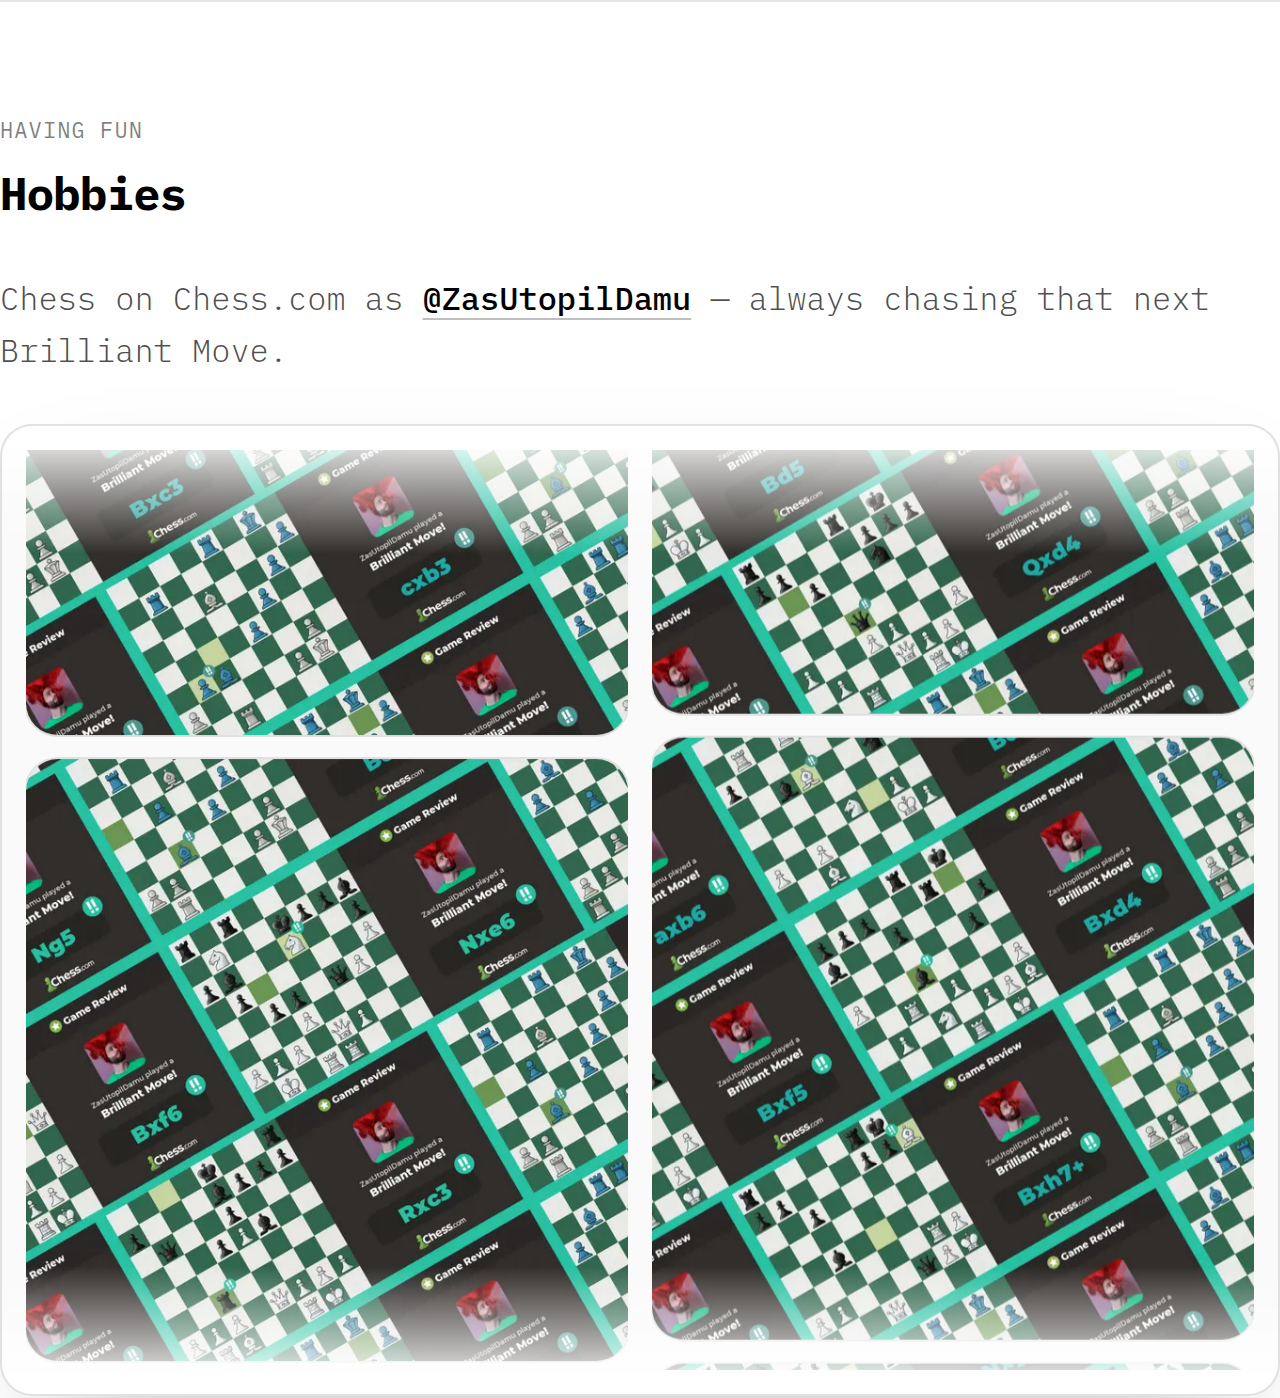
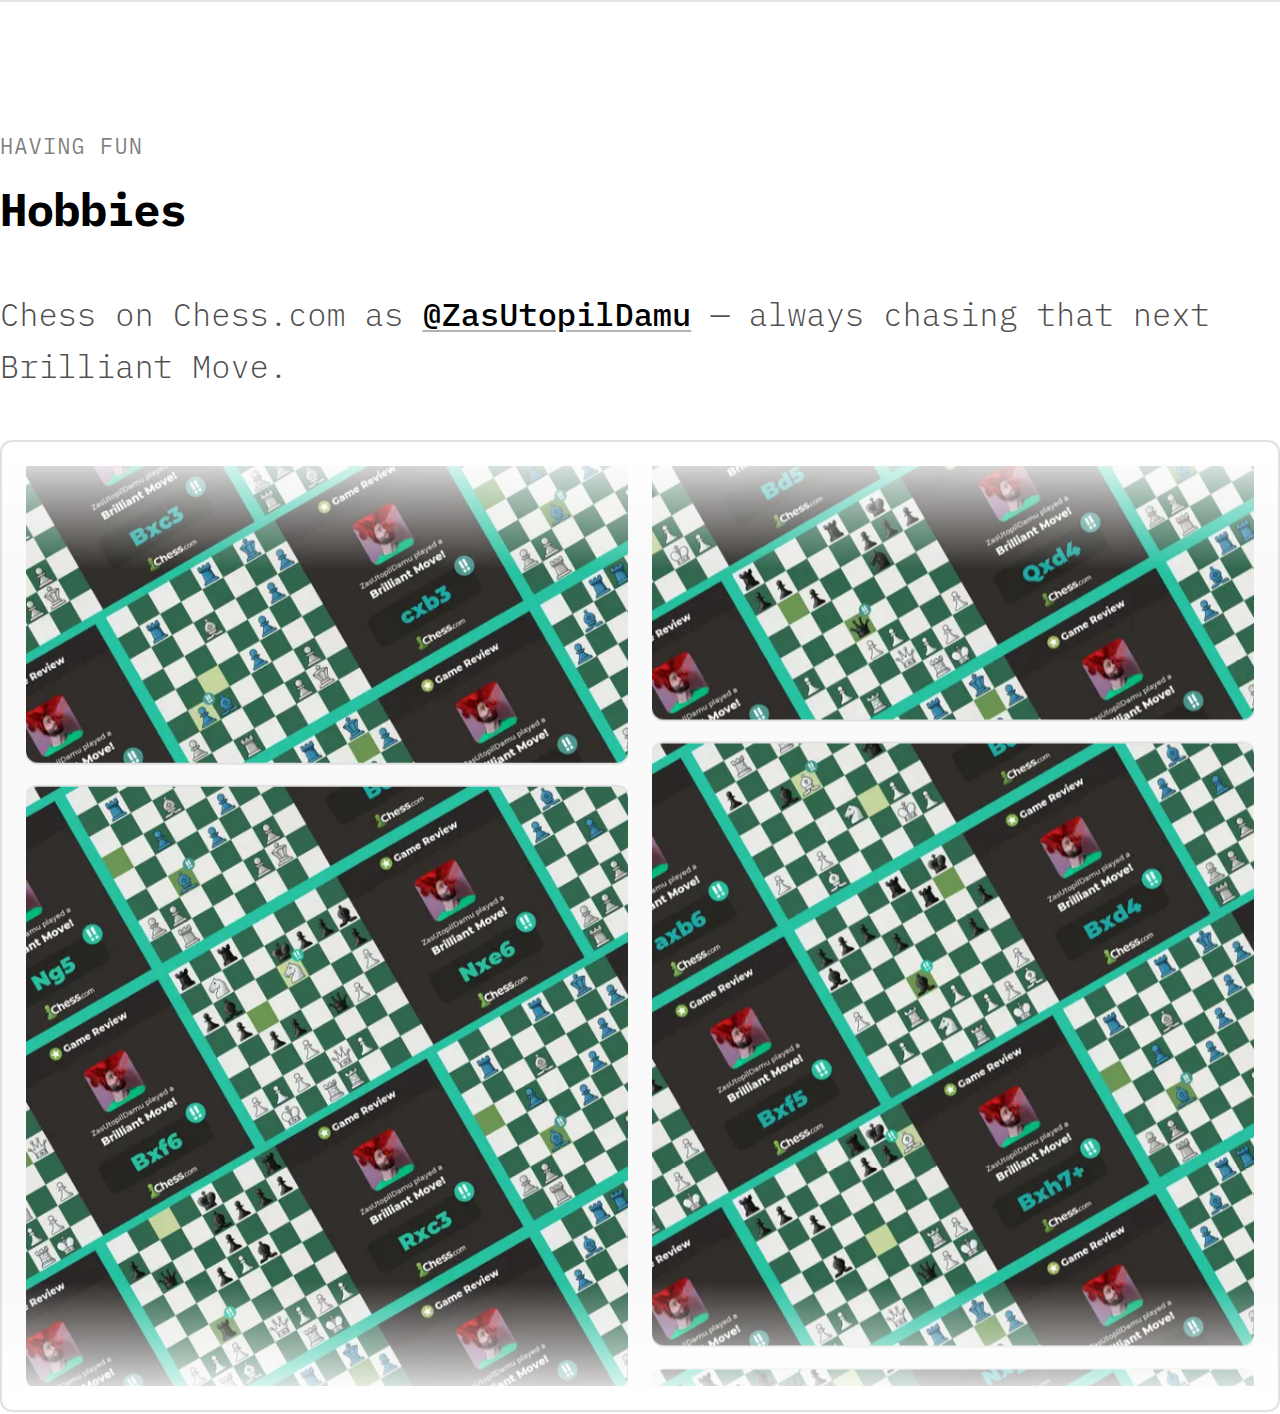
style(cv): apply precise blog design tokens from DATTOO capture
- Page rhythm: pt-16 / pb-24 (64 top / 96 bottom); 64px section gaps
- Cards/images: 1px black/10 border, ~6px radius (rounded-md), no shadow
  (portrait + chess ticker frame and tiles)
- Links: match BlogPostArticleContent — decoration-black/30, underline-offset-2,
  hover text-blue-600 / decoration-blue-500

Re-captured docs/cv-review screenshots.

diff --git a/app/about/cv-klenoticmarek/CvContent.tsx b/app/about/cv-klenoticmarek/CvContent.tsx
@@ -103,7 +103,7 @@ function CompanyLink({ href, children }: { href: string; children: ReactNode }) 
       target="_blank"
       rel="noopener noreferrer"
       onClick={() => trackEvent("cv_bio_company_clicked", { href })}
-      className={`rounded-sm font-medium text-black underline decoration-black/25 underline-offset-4 transition-colors hover:text-blue-600 hover:decoration-blue-500 ${FOCUS_RING}`}
+      className={`rounded-sm font-medium text-black underline decoration-black/30 underline-offset-2 transition-colors hover:text-blue-600 hover:decoration-blue-500 ${FOCUS_RING}`}
     >
       {children}
     </a>
@@ -264,7 +264,7 @@ function CtaLink({ label, href, download, external, icon }: Cta) {
       onClick={onClick}
       {...(download ? { download: "" } : {})}
       {...(external ? { target: "_blank", rel: "noopener noreferrer" } : {})}
-      className={`inline-flex items-center gap-1.5 rounded-sm font-mono text-sm font-medium text-black underline decoration-black/25 underline-offset-4 transition-colors hover:text-blue-600 hover:decoration-blue-500 ${FOCUS_RING}`}
+      className={`inline-flex items-center gap-1.5 rounded-sm font-mono text-sm font-medium text-black underline decoration-black/30 underline-offset-2 transition-colors hover:text-blue-600 hover:decoration-blue-500 ${FOCUS_RING}`}
     >
       <span>{label}</span>
       {icon === "download" ? <DownloadIcon /> : null}
@@ -343,7 +343,7 @@ function Section({
   id?: string;
 }) {
   return (
-    <section id={id} className="w-full border-t border-black/10 pt-14">
+    <section id={id} className="w-full border-t border-black/10 pt-16">
       <SectionHeading kicker={kicker} title={title} />
       {children}
     </section>
@@ -352,7 +352,7 @@ function Section({
 
 export default function CvContent() {
   return (
-    <main className="flex min-h-dvh flex-col items-center bg-white px-4 py-16">
+    <main className="flex min-h-dvh flex-col items-center bg-white px-4 pt-16 pb-24">
       <div className="flex w-full max-w-[640px] flex-col">
         {/* Top nav — mirrors the blog post breadcrumb. Page is unlisted /
             noindex, so no marketing chrome. */}
@@ -373,7 +373,7 @@ export default function CvContent() {
             Curriculum Vitae
           </span>
 
-          <div className="mb-8 w-full max-w-[280px] overflow-hidden rounded-2xl ring-1 ring-black/10 shadow-[0_24px_60px_-30px_rgba(0,0,0,0.4)]">
+          <div className="mb-8 w-full max-w-[280px] overflow-hidden rounded-md border border-black/10">
             <Image
               src="/about/cv-klenoticmarek/portrait.jpg"
               alt="Portrait of Marek Klenotič wearing a white TALENT INSIDE t-shirt"
@@ -399,7 +399,7 @@ export default function CvContent() {
           <HeroBio />
         </div>
 
-        <div className="mt-16 flex flex-col gap-14">
+        <div className="mt-16 flex flex-col gap-16">
           {/* Experience */}
           <Section kicker="Who Gave Me a Chance" title="Experience">
             <ul className="flex flex-col">
@@ -421,7 +421,7 @@ export default function CvContent() {
           </Section>
 
           {/* Quote */}
-          <section className="w-full border-t border-black/10 pt-14">
+          <section className="w-full border-t border-black/10 pt-16">
             <blockquote className="mx-auto max-w-[36ch] text-center font-mono text-xl font-light leading-snug text-black/70 italic">
               &ldquo;I am a responsible, creative, and organized team player who
               emphasizes common sense and freedom.&rdquo;
@@ -505,7 +505,7 @@ export default function CvContent() {
                   href="https://www.chess.com/member/ZasUtopilDamu"
                   target="_blank"
                   rel="noopener noreferrer"
-                  className={`rounded-sm font-medium text-black underline decoration-black/25 underline-offset-4 transition-colors hover:text-blue-600 hover:decoration-blue-500 ${FOCUS_RING}`}
+                  className={`rounded-sm font-medium text-black underline decoration-black/30 underline-offset-2 transition-colors hover:text-blue-600 hover:decoration-blue-500 ${FOCUS_RING}`}
                 >
                   @ZasUtopilDamu
                 </a>{" "}

diff --git a/app/about/cv-klenoticmarek/HobbiesTicker.tsx b/app/about/cv-klenoticmarek/HobbiesTicker.tsx
@@ -35,7 +35,7 @@ function MarqueeColumn({
         {loop.map((src, i) => (
           <div
             key={`${src}-${i}`}
-            className="relative aspect-square overflow-hidden rounded-2xl ring-1 ring-black/10"
+            className="relative aspect-square overflow-hidden rounded-md ring-1 ring-black/10"
           >
             <Image
               src={src}
@@ -57,7 +57,7 @@ export default function HobbiesTicker() {
   const columnB = COLLAGES.slice(half);
 
   return (
-    <div className="relative overflow-hidden rounded-2xl border border-black/10 bg-black/[0.02] p-3 shadow-[0_24px_60px_-30px_rgba(0,0,0,0.35)]">
+    <div className="relative overflow-hidden rounded-md border border-black/10 bg-black/[0.02] p-3">
       <div className="grid h-[380px] grid-cols-2 gap-3 md:h-[460px]">
         <MarqueeColumn images={columnA} dir="up" duration={40} />
         <MarqueeColumn images={columnB} dir="down" duration={46} />
@@ -66,11 +66,11 @@ export default function HobbiesTicker() {
       {/* Fade the scrolling tiles into the page canvas at the card edges. */}
       <div
         aria-hidden
-        className="pointer-events-none absolute inset-x-0 top-0 h-16 rounded-t-2xl bg-linear-to-b from-white to-transparent"
+        className="pointer-events-none absolute inset-x-0 top-0 h-16 rounded-t-md bg-linear-to-b from-white to-transparent"
       />
       <div
         aria-hidden
-        className="pointer-events-none absolute inset-x-0 bottom-0 h-16 rounded-b-2xl bg-linear-to-t from-white to-transparent"
+        className="pointer-events-none absolute inset-x-0 bottom-0 h-16 rounded-b-md bg-linear-to-t from-white to-transparent"
       />
     </div>
   );
